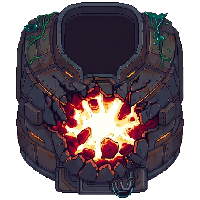
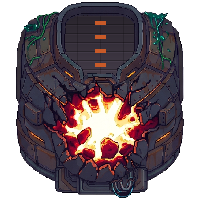
Leviathan: Hals gefüllt, Arme nach außen (Linse frei), Fransenpixel entfernt; Regel 19 (alles Gelernte sofort dokumentieren)
Claude-Session: https://claude.ai/code/session_016nKYwnYuF4CmZLCQQeZHuo

Changed region(s): [[0.3, 0.09, 0.69, 0.39]]

diff --git a/handoff/endboss_arena.md b/handoff/endboss_arena.md
@@ -14,6 +14,8 @@
 
 - **✅ Optik-Bereinigung (Chat „Leviathan Optik“, 2026-11-28):** `armRaise`/`armSlam` waren am Zellraster zerschnitten (halbe Arme, harte Schnittkante, Fremdstück links) → aus `art_source/rigs/boss_leviathan_arms.png` per Komponenten-Ausschnitt neu gesetzt (Schulter-Pivot (132,108) unverändert, Raise 0,86× damit sie in den 240×260-Rahmen passt); Rest-Splitter links an `torso`, `torsoP2`, `head`, `headP2` entfernt. **Learning 20:** Posen eines Sheets, die über die Zellgrenze ragen, nie per Raster schneiden, sondern per Flood-Fill/Komponente. ⬜ Offen: Sichtprüfung im echten Spiel (`?bosslab` → ARENEN), evtl. weitere Feinheiten (Kopf-Sitz, Torso-Hals-Loch) nach Rückmeldung des Inhabers.
 
+- **✅ Optik-Bereinigung 2 (2026-11-28):** Hals-Loch im Torso (`torso`, `P2`, `P3`, `Dead`) mit Stahl-Kragen (Plattenfugen, Kühlschlitze) gefüllt; Arme im Rig von `±14` auf `±28` nach außen (`boss_leviathan.json`), damit die Fäuste die Kern-Linse (Schwachstelle) nicht mehr verdecken; weiße Rand-Fransenpixel an allen Teilen entfernt. Rest ⬜: Sichtprüfung im echten Spiel, Kopf-Sitz in Phase III ggf. nachjustieren (`head` `offset`/`attach` in der JSON).
+
 ## 💡 Praxis-Learnings & harte Fallen aus dem Leviathan-Pilot (für S2–S4 Endbosse & künftige Chats!)
 > **Unbedingt lesen vor jeder neuen M12-Endboss-Arena oder Boss-Rig-Überarbeitung:**
 1. **Keine 2D-IK-Stäbchen / Sticker-Gelenke an Wand-Bossen:** Zusammengestöpselte Einzelteil-Knochen und runde Gelenk-Kreise wirken wie drübergelegte Fremdteile. Stattdessen immer ein echtes **M11-Pose-Set-Rig** (`src/data/rigs/<boss>.json`) bauen — ganze Arm-Posen (`armIdle`, `armRaise`, `armSlam`, `armDmg`, `armCrit`), die im selben Stil-Durchgang entstehen.
@@ -35,6 +37,9 @@
 17. **Boss-Labor/Bot-Fallen:** `Boss ∞` hält die HP ≥ 5 % → Bot kann den Boss nie töten (für Kampftests `bossLab.bossImmortal = false`). Abgrund-Sturz passiert auch bei Unverwundbarkeit; der Sog (`pull`) zieht in den Abgrund → Bots müssen Umwege (A*) nehmen oder `z.pull = 0`; steckt ein Bot „bei 62 % HP fest“, zuerst Position/Ziel loggen statt am Boss zu zweifeln.
 18. **Zustands-Sprites per Referenz-Edit:** `npm run art:gen` mit dem Basisbild als `--ref` und Prompt „gleiche Komposition/Größe/Sockel, nur den Zustand ändern“ → konsistente Varianten (überhitzt, Kern frei, erloschen). **Alle Zustände mit derselben Zuschneide-Box freistellen** (nicht je Bild `getbbox()`), sonst verrutschen sie beim Wechsel; weißen Kern nicht mit „eingeschlossenes Weiß entfernen“ löschen (nur seitliche, reinweiße Lücken).
 19. **Gefahr auf dem Weg zum Test:** Vercel-Limit und Parallelarbeit (`PARALLEL_WORK.md` §5) kosten oft mehr Zeit als der Code — vor dem Bauen Claim prüfen, vor dem Deploy bündeln.
+20. **Posen, die über die Zellgrenze ragen, nie per Raster schneiden** (Ursache der halben Arme): per Flood-Fill (Hintergrund `min(RGB) > 225` vom Rand aus) + Komponente ausschneiden, Maßstab von der Idle-Pose übernehmen, Schulter-Mittelpunkt auf den gemeinsamen Pivot (132,108) setzen; passt eine Pose nicht in den 240×260-Rahmen → Pose skalieren (Raise 0,86×), nicht den Rahmen ändern.
+21. **Boss im Ganzen ansehen, nicht nur im Test-Screenshot:** Kamera klemmt am Arena-Rand und schneidet den Boss ab. Zum Prüfen kurz einen Hilfstest schreiben, der `camera.renderY` überschreibt (z. B. `() => camera.y - 60`) und alle 3 Phasen als Ausschnitt 3× vergrößert speichert; danach den Hilfstest wieder löschen. Immer die Phasen nebeneinander vergleichen (Kopf-Sitz, Hals, Linse frei?).
+22. **Hohle Teile füllen:** Offene dunkle Hohlräume in Torso-Sprites (Hals-Loch) wirken leer; per Flood-Fill auf der Hohlraumfarbe (Toleranz ~22, auf Oberkörper begrenzt, Leck-Check < 9000 px) mit Stahlstruktur füllen. Seed-Farbe vorher prüfen (Outline ist ähnlich dunkel).
 - **✅ Pilot A.E.G.I.S. Leviathan — alle Sprites & erweiterten Sektor-Endboss-Standards (A1–A15) umgesetzt; bereit zur Abnahme im echten Spiel!**
   - ✅ **Erweiterte Sektor-Endboss-Standards `A11–A15`** in [`MILESTONE_12_ARCHITECTURE.md`](../MILESTONE_12_ARCHITECTURE.md) §2 & [`BOSS_ENEMY_PIPELINE.md`](../BOSS_ENEMY_PIPELINE.md) festgeschrieben.
   - ✅ **Alle 4 Körper-Zustände (A11, P1-10 & P1-11a/b/c):** Phase I (`arena_leviathan_body.png`), Phase II überhitzt (`_p2.png`, 97,7 % Deckung), Phase III Panzer abgesprengt (`_p3.png`, 96,2 % Deckung), Besiegt/erloschen (`_dead.png`, 94,6 % Deckung) + kritische Funken-Partikel unter 15 % HP. **0 fehlende M12-Sprites!**

diff --git a/AGENTS.md b/AGENTS.md
@@ -56,6 +56,8 @@
 
 18. **Ein Besitzer pro Bereich (Claim-Regel, gilt für alle Agenten & Chats):** Vor jeder Arbeit `git fetch`, [`handoff/README.md`](handoff/README.md) (Claim-Liste) und offene `[~]`-Zeilen in `SPRITE_QUEUE.md` prüfen; ist der Bereich/die Datei belegt → nicht anfangen. Eigenen Claim vor der ersten Code-Zeile eintragen und pushen, beim Ende freigeben; Sprite-Dateinamen nur mit eigener `[~]`-Zeile. Kollisionen ohne blindes Mergen auflösen (Sicherungs-Branch, beide Ergebnisse ansehen, bessere behalten, Inhaber informieren) — Ablauf: `PARALLEL_WORK.md` §5. Praxis-Learnings in das Status-Blatt des Bereichs schreiben.
 
+19. **Alles Gelernte sofort dokumentieren — Chatwechsel-sicher (gilt für jeden Agenten, jede Arbeit):** Jede Erkenntnis, die ein nachfolgender Chat sonst neu herausfinden müsste, wird **im selben Arbeitsschritt** ins Status-Blatt des Bereichs (`handoff/<bereich>.md`, Abschnitt „Praxis-Learnings“, fortlaufend nummeriert) geschrieben und im **selben Commit** gepusht — nicht erst am Ende: (a) Fehlerursachen & wie sie behoben wurden (z. B. „Posen am Zellraster zerschnitten“), (b) Fallen/Stolpersteine, (c) Befehle/Skripte, die funktioniert haben (Ort nennen; wiederverwendbare Skripte nach `scripts/` statt in den Scratchpad), (d) Entscheidungen des Inhabers & Maße/Werte (Pivot, Offsets, Schwellen), (e) was **bewusst nicht** gemacht wurde und warum, (f) offene Punkte mit konkretem nächsten Schritt. Allgemeingültiges (nicht bereichsspezifisch) zusätzlich in `AGENTS.md`/Pipeline-Dokument. Vor dem Ende einer Sitzung und vor jedem möglichen Abbruch gilt: Was nur in deinem Kopf steht, ist verloren.
+
 „Gut genug“ oder „Rest später“ ist **kein** Grund — offene Punkte stehen sonst mit Begründung in der Abschlussmeldung und im Status-Blatt.
 
 ---

diff --git a/CLAUDE.md b/CLAUDE.md
@@ -4,4 +4,5 @@
 - Einstieg: erst `AGENTS.md`, dann `HANDOFF.md` (aktueller Stand & nächster Schritt).
 - **Pushen: `npm run ship`** (fetch → merge `origin/main` → verify → push `main`; nie bei Fehlern). Mehrere Chats parallel: `PARALLEL_WORK.md`, Status je Bereich in `handoff/`. Vor jedem Push gilt weiterhin `npm run verify` (Build → Invarianten → Sprite-Check → Tests) — `ship` ruft es auf. Nur ein Teil davon? `npm test -- m10p3` (einzelne Tests), `npm run build`.
 - **Sprites als Standardwerkzeug (`AGENTS.md` Regel 14/15):** Bei jedem neuen Feature, Umbau oder jeder Verbesserung prüfen, ob eigene Sprites es schöner machen — dann direkt per `npm run art:gen` erzeugen (Key kommt über den Proxy) bzw. in `SPRITE_QUEUE.md` bestellen. Nicht an Bild-Credits sparen.
+- **Dokumentieren (`AGENTS.md` Regel 19):** Jede Erkenntnis/Falle/Entscheidung sofort ins Status-Blatt (`handoff/…`, „Praxis-Learnings“) und im selben Commit pushen — damit ein Chatwechsel nahtlos weitergeht.
 - Neue Fallbacks/Platzhalter-Grafiken oder neue M11-Sheets anlegen? Siehe `AGENTS.md` §3 Regel 7 („Fehlende Sprites melden & priorisiert einreihen“): immer sofort mit Priorität (`P0`–`P4`), Zielpfad, Referenzbild und Prompt-Verweis in `SPRITE_QUEUE.md` einsortieren und kurz in `HANDOFF.md` vermerken.

diff --git a/handoff/README.md b/handoff/README.md
@@ -7,7 +7,7 @@ Jeder Chat/Agent pflegt **nur die Datei seines Bereichs**. `HANDOFF.md` bleibt d
 
 | Bereich | Besitzer (Werkzeug · Chat) | seit | Umfang (was ist in Arbeit — **was bewusst nicht**) |
 | :--- | :--- | :--- | :--- |
-| Endboss-Arenen M12 (Leviathan-Pilot, künftig S2–S4) | Claude Code · Chat „Leviathan Optik 2“ | 2026-11-28 | Feinheiten Leviathan-Rig (Kopf-Sitz, Hals, Schiene) + Doku-Regel; keine neue Arena |
+| Endboss-Arenen M12 (Leviathan-Pilot, künftig S2–S4) | frei — Pilot wartet auf Abnahme im echten Spiel | 2026-11-28 | nächste Arena erst nach Abnahme (Pipeline Stufe 8) |
 | Cutscenes | siehe [`cutscenes.md`](cutscenes.md) | — | Besitzer dort eintragen |
 | Gegner-Rigs / Boss-Rigs (M11) | je Gegner: siehe Tabelle unten, Status-Blatt | — | pro Gegner/Boss ein Besitzer |
 | Sprite-Queue (`SPRITE_QUEUE.md`) | Antigravity (offene `[ ]`) · Claude-Chats nur `[~]` für ihre laufende Aufgabe | — | `[~]` = in Arbeit, **nicht** doppelt erzeugen |
